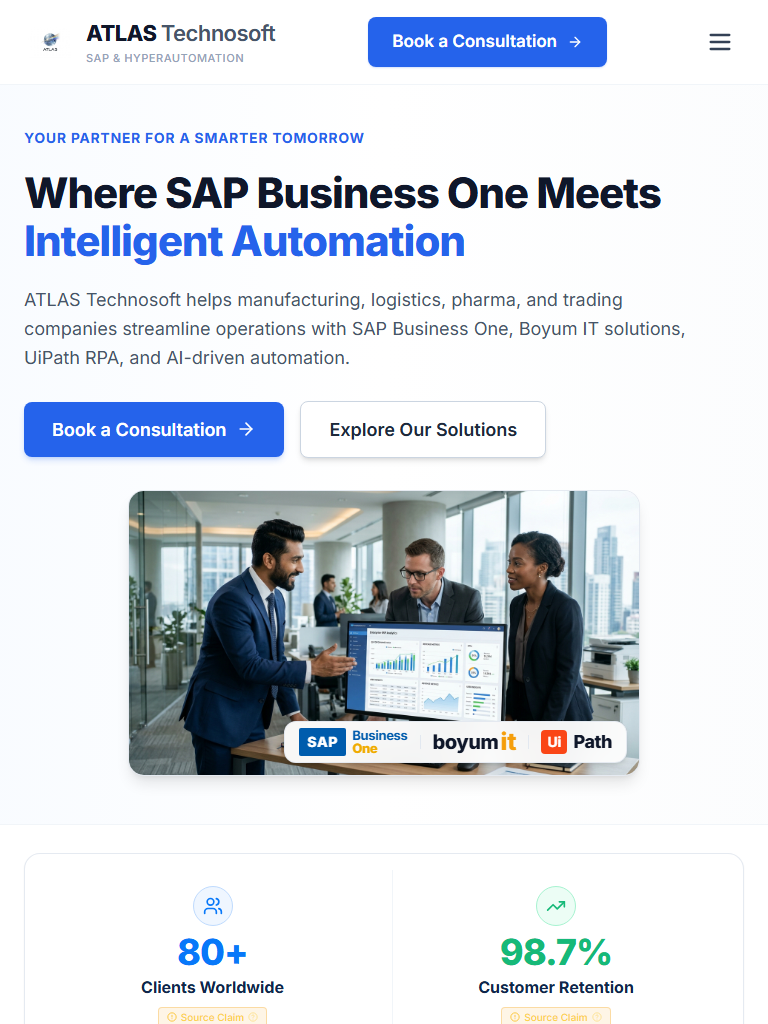
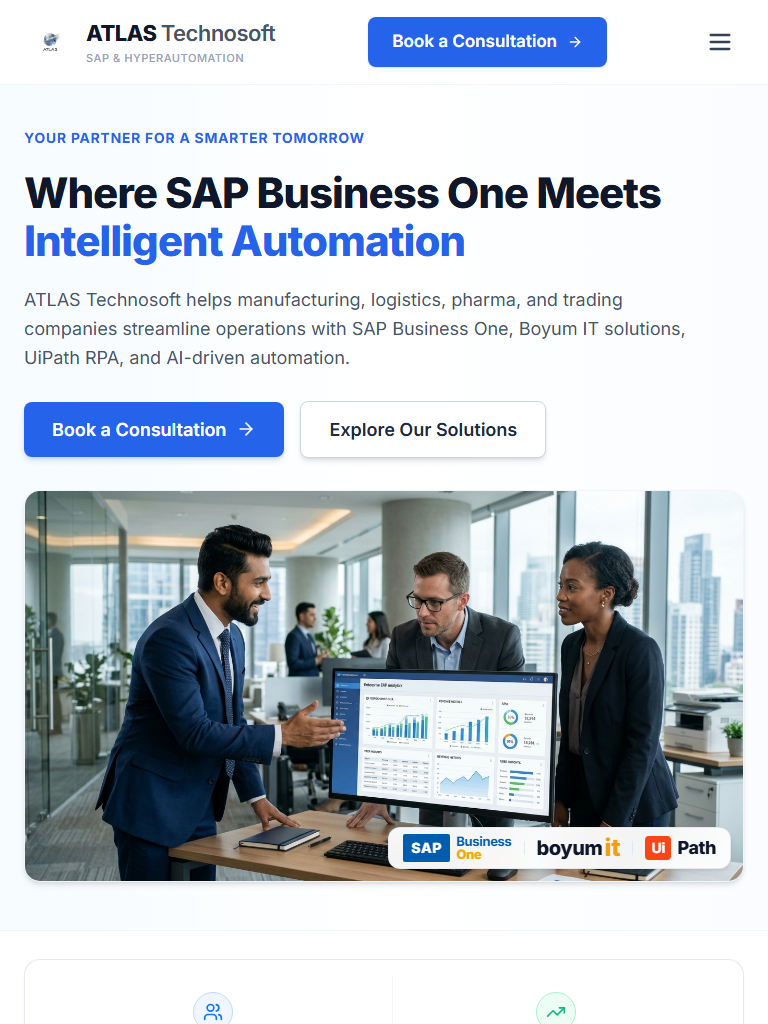
feat(ui): exact starting hero ambient background, balanced widescreen proportions, and accurate last section cards

Changed region(s): [[0.0312, 0.4688, 0.9688, 1.0]]

diff --git a/src/pages/HomePage.tsx b/src/pages/HomePage.tsx
@@ -150,11 +150,17 @@ export const HomePage: React.FC = () => {
       {/* ========================================================================= */}
       {/* SECTION 2: HERO SECTION                                                   */}
       {/* ========================================================================= */}
-      <section className="relative overflow-hidden bg-gradient-to-r from-blue-50/40 via-white to-slate-50/50 pt-10 pb-12 lg:pt-14 lg:pb-16 border-b border-slate-100">
-        <div className="max-w-[1320px] mx-auto px-4 sm:px-6 lg:px-8">
-          <div className="grid grid-cols-1 lg:grid-cols-12 gap-8 lg:gap-12 items-center">
+      <section className="relative overflow-hidden bg-gradient-to-r from-sky-50/60 via-white to-blue-50/30 pt-10 pb-12 lg:pt-14 lg:pb-16 border-b border-slate-100">
+        
+        {/* Subtle ambient office plant botanical glow on far left as in reference */}
+        <div className="absolute -left-12 top-1/2 -translate-y-1/2 w-48 h-80 opacity-25 pointer-events-none select-none hidden lg:block">
+          <div className="w-full h-full bg-gradient-to-tr from-emerald-600/30 via-teal-500/10 to-transparent rounded-full blur-3xl" />
+        </div>
+
+        <div className="max-w-[1380px] xl:max-w-[1420px] mx-auto px-4 sm:px-6 lg:px-8 relative">
+          <div className="grid grid-cols-1 lg:grid-cols-12 gap-8 lg:gap-10 xl:gap-14 items-center">
             
-            {/* Left Column (Approx 58% on Desktop) */}
+            {/* Left Column (Approx 58% on Desktop, well-proportioned covering left side) */}
             <div className="lg:col-span-7 space-y-5 text-left">
               {/* Eyebrow Label: 13–14px */}
               <div className="inline-block">
@@ -198,13 +204,13 @@ export const HomePage: React.FC = () => {
               </div>
             </div>
 
-            {/* Right Column: Hero Visual with Crystal-Clear Team Image & Floating Partner Ribbon */}
+            {/* Right Column: Hero Visual seamlessly filling right side proportion */}
             <div className="lg:col-span-5 relative">
-              <div className="relative mx-auto w-full max-w-lg lg:max-w-none rounded-2xl overflow-hidden shadow-lg border border-slate-200/90 bg-white">
+              <div className="relative w-full rounded-2xl overflow-hidden shadow-md border border-slate-100 bg-white">
                 <img
                   src="/images/crystal_hd/hero_team.jpg"
                   alt="ATLAS Technosoft Enterprise Team collaborating on SAP Business One Dashboard"
-                  className="w-full h-auto object-cover max-h-[380px]"
+                  className="w-full h-auto object-cover max-h-[390px]"
                 />
 
                 {/* Floating Partner Logo Ribbon Box at Bottom Right */}
@@ -226,7 +232,7 @@ export const HomePage: React.FC = () => {
       {/* SECTION 3: COMPANY METRICS BAR (COMPACT "SMALL SIZE" SINGLE BOX CARD)     */}
       {/* ========================================================================= */}
       <section id="metrics" className="py-6 sm:py-7 bg-white border-b border-slate-100">
-        <div className="max-w-[1320px] mx-auto px-4 sm:px-6 lg:px-8">
+        <div className="max-w-[1380px] xl:max-w-[1420px] mx-auto px-4 sm:px-6 lg:px-8">
           {/* Sleek, Single White Box-Type Container Bar matching Reference Image */}
           <div className="rounded-xl sm:rounded-2xl bg-white border border-slate-200/90 shadow-sm py-4 px-3 sm:px-6">
             <div className="grid grid-cols-2 lg:grid-cols-4 gap-4 divide-y sm:divide-y-0 sm:divide-x divide-slate-100">
@@ -244,7 +250,7 @@ export const HomePage: React.FC = () => {
       {/* SECTION 4: SERVICES OVERVIEW (4 COMPACT BOX-TYPE CARDS)                   */}
       {/* ========================================================================= */}
       <section id="services" className="py-10 sm:py-12 lg:py-14 bg-slate-50/50 border-b border-slate-100">
-        <div className="max-w-[1320px] mx-auto px-4 sm:px-6 lg:px-8">
+        <div className="max-w-[1380px] xl:max-w-[1420px] mx-auto px-4 sm:px-6 lg:px-8">
           
           <SectionHeading
             badge="OUR SERVICES"
@@ -316,7 +322,7 @@ export const HomePage: React.FC = () => {
       {/* SECTION 5: OUR EXPERTISE (BRIDGING ERP AND AUTOMATION)                    */}
       {/* ========================================================================= */}
       <section id="expertise" className="py-10 sm:py-12 lg:py-14 bg-white border-b border-slate-100">
-        <div className="max-w-[1320px] mx-auto px-4 sm:px-6 lg:px-8">
+        <div className="max-w-[1380px] xl:max-w-[1420px] mx-auto px-4 sm:px-6 lg:px-8">
           <div className="grid grid-cols-1 lg:grid-cols-12 gap-8 lg:gap-12 items-center">
             
             {/* Left Content (approx 55% width) */}
@@ -374,7 +380,7 @@ export const HomePage: React.FC = () => {
       {/* SECTION 6: INDUSTRIES WE SERVE (4 COMPACT BOX-TYPE CARDS)                 */}
       {/* ========================================================================= */}
       <section id="industries" className="py-10 sm:py-12 lg:py-14 bg-slate-50/50 border-b border-slate-100">
-        <div className="max-w-[1320px] mx-auto px-4 sm:px-6 lg:px-8">
+        <div className="max-w-[1380px] xl:max-w-[1420px] mx-auto px-4 sm:px-6 lg:px-8">
           
           <SectionHeading
             badge="INDUSTRIES WE SERVE"
@@ -417,7 +423,7 @@ export const HomePage: React.FC = () => {
       {/* SECTION 7: OUR APPROACH (INLINE PROCESS FLOW FROM REFERENCE IMAGE)        */}
       {/* ========================================================================= */}
       <section id="approach" className="py-10 sm:py-12 lg:py-14 bg-white border-b border-slate-100">
-        <div className="max-w-[1320px] mx-auto px-4 sm:px-6 lg:px-8">
+        <div className="max-w-[1380px] xl:max-w-[1420px] mx-auto px-4 sm:px-6 lg:px-8">
           
           <SectionHeading
             badge="OUR APPROACH"
@@ -457,7 +463,7 @@ export const HomePage: React.FC = () => {
       {/* SECTION 8: CUSTOMER SUCCESS (TWO COMPACT SIDE-BY-SIDE CARDS)              */}
       {/* ========================================================================= */}
       <section id="case-studies" className="py-10 sm:py-12 lg:py-14 bg-slate-50/50 border-b border-slate-100">
-        <div className="max-w-[1320px] mx-auto px-4 sm:px-6 lg:px-8">
+        <div className="max-w-[1380px] xl:max-w-[1420px] mx-auto px-4 sm:px-6 lg:px-8">
           
           <SectionHeading
             badge="CUSTOMER SUCCESS"
@@ -521,10 +527,10 @@ export const HomePage: React.FC = () => {
       </section>
 
       {/* ========================================================================= */}
-      {/* SECTION 9: OUR PARTNERS (SIDE-BY-SIDE AS IN REFERENCE IMAGE)             */}
+      {/* SECTION 9: OUR PARTNERS (SIDE-BY-SIDE AS IN REFERENCE IMAGE im2)          */}
       {/* ========================================================================= */}
       <section id="partners" className="py-8 sm:py-10 bg-white border-b border-slate-100">
-        <div className="max-w-[1320px] mx-auto px-4 sm:px-6 lg:px-8">
+        <div className="max-w-[1380px] xl:max-w-[1420px] mx-auto px-4 sm:px-6 lg:px-8">
           <div className="grid grid-cols-1 lg:grid-cols-12 gap-6 lg:gap-8 items-center">
             
             {/* Left Side: Title & Subtitle */}
@@ -540,14 +546,14 @@ export const HomePage: React.FC = () => {
               </p>
             </div>
 
-            {/* Right Side: Partner Logos White Box */}
-            <div className="lg:col-span-6 flex items-center justify-end">
-              <div className="w-full max-w-lg bg-white rounded-xl sm:rounded-2xl border border-slate-200/90 shadow-sm py-4 px-6 flex items-center justify-around">
-                <SAPBusinessOneLogo className="h-7 sm:h-8" />
-                <div className="h-6 w-px bg-slate-200" />
-                <BoyumITLogo className="h-7 sm:h-8" />
-                <div className="h-6 w-px bg-slate-200" />
-                <UiPathLogo className="h-7 sm:h-8" />
+            {/* Right Side: Clean Partner Logos inline with dividers matching im2 */}
+            <div className="lg:col-span-6 flex items-center justify-start lg:justify-end">
+              <div className="flex items-center gap-6 sm:gap-8 py-2">
+                <SAPBusinessOneLogo className="h-8 sm:h-9" />
+                <div className="h-7 w-px bg-slate-300" />
+                <BoyumITLogo className="h-8 sm:h-9" />
+                <div className="h-7 w-px bg-slate-300" />
+                <UiPathLogo className="h-8 sm:h-9" />
               </div>
             </div>
 
@@ -556,13 +562,13 @@ export const HomePage: React.FC = () => {
       </section>
 
       {/* ========================================================================= */}
-      {/* SECTION 10: LET'S DISCUSS YOUR BUSINESS NEEDS (BOX-TYPE BANNER)           */}
+      {/* SECTION 10: LET'S DISCUSS YOUR BUSINESS NEEDS (BOX-TYPE BANNER im2)       */}
       {/* ========================================================================= */}
       <section id="contact" className="py-10 sm:py-12 lg:py-14 bg-slate-50/50">
-        <div className="max-w-[1320px] mx-auto px-4 sm:px-6 lg:px-8">
+        <div className="max-w-[1380px] xl:max-w-[1420px] mx-auto px-4 sm:px-6 lg:px-8">
           
-          {/* Defined Box Container */}
-          <div className="rounded-2xl bg-gradient-to-br from-blue-50/80 via-sky-50/40 to-blue-50/80 border border-blue-200/90 p-6 sm:p-8 lg:p-10 shadow-sm">
+          {/* Defined Light Cyan/Blue Box Container matching im2 */}
+          <div className="rounded-2xl bg-[#eaf4ff] border border-blue-200/90 p-6 sm:p-8 lg:p-10 shadow-sm">
             <div className="grid grid-cols-1 lg:grid-cols-12 gap-8 lg:gap-10 items-center">
               
               {/* Left Column: Heading, Subtext & CTA Button */}
@@ -580,7 +586,7 @@ export const HomePage: React.FC = () => {
                     onClick={() => setIsModalOpen(true)}
                     variant="primary"
                     size="lg"
-                    className="text-[16px] sm:text-[17px] font-semibold px-8 py-3.5 shadow-md shadow-blue-600/25"
+                    className="text-[16px] sm:text-[17px] font-semibold px-8 py-3.5 shadow-md shadow-blue-600/25 bg-[#0878f9] hover:bg-blue-700"
                     icon={<ArrowRight className="w-5 h-5" />}
                   >
                     Book a Consultation
@@ -588,11 +594,11 @@ export const HomePage: React.FC = () => {
                 </div>
               </div>
 
-              {/* Right Column: 3 White Boxed Contact Info Cards in a Sleek Row */}
-              <div className="lg:col-span-7 grid grid-cols-1 sm:grid-cols-3 gap-3">
+              {/* Right Column: 3 Contact Info Cards with distinct colored borders matching im2 */}
+              <div className="lg:col-span-7 grid grid-cols-1 sm:grid-cols-3 gap-3.5">
                 
-                {/* Email Box Card */}
-                <div className="flex items-center gap-3 p-3.5 rounded-xl bg-white border-2 border-[#2992ff]/40 hover:border-[#2992ff] shadow-sm hover:shadow-md transition-all">
+                {/* Email Box Card: GREEN border */}
+                <div className="flex items-center gap-3 p-3.5 rounded-xl bg-white border-2 border-[#16b978] shadow-sm hover:shadow-md transition-all">
                   <div className="w-10 h-10 rounded-lg bg-blue-50 border border-blue-100 text-[#0878f9] flex items-center justify-center shrink-0">
                     <Mail className="w-5 h-5" />
                   </div>
@@ -602,15 +608,15 @@ export const HomePage: React.FC = () => {
                     </span>
                     <a
                       href={`mailto:${BRAND_INFO.contact.email}`}
-                      className="text-[13.5px] sm:text-[14px] font-bold text-slate-900 hover:text-blue-600 transition-colors truncate block leading-snug"
+                      className="text-[13px] sm:text-[13.5px] font-bold text-slate-900 hover:text-blue-600 transition-colors truncate block leading-snug"
                     >
                       {BRAND_INFO.contact.email}
                     </a>
                   </div>
                 </div>
 
-                {/* Phone Box Card */}
-                <div className="flex items-center gap-3 p-3.5 rounded-xl bg-white border-2 border-[#2992ff]/40 hover:border-[#2992ff] shadow-sm hover:shadow-md transition-all">
+                {/* Phone Box Card: BLUE border */}
+                <div className="flex items-center gap-3 p-3.5 rounded-xl bg-white border-2 border-[#2992ff] shadow-sm hover:shadow-md transition-all">
                   <div className="w-10 h-10 rounded-lg bg-blue-50 border border-blue-100 text-[#0878f9] flex items-center justify-center shrink-0">
                     <Phone className="w-5 h-5" />
                   </div>
@@ -622,15 +628,15 @@ export const HomePage: React.FC = () => {
                       href={BRAND_INFO.contact.whatsappLink}
                       target="_blank"
                       rel="noopener noreferrer"
-                      className="text-[13.5px] sm:text-[14px] font-bold text-slate-900 hover:text-blue-600 transition-colors truncate block leading-snug"
+                      className="text-[13px] sm:text-[13.5px] font-bold text-slate-900 hover:text-blue-600 transition-colors truncate block leading-snug"
                     >
                       {BRAND_INFO.contact.phone}
                     </a>
                   </div>
                 </div>
 
-                {/* Locations Box Card */}
-                <div className="flex items-center gap-3 p-3.5 rounded-xl bg-white border-2 border-[#2992ff]/40 hover:border-[#2992ff] shadow-sm hover:shadow-md transition-all">
+                {/* Locations Box Card: PURPLE border */}
+                <div className="flex items-center gap-3 p-3.5 rounded-xl bg-white border-2 border-[#a34dff] shadow-sm hover:shadow-md transition-all">
                   <div className="w-10 h-10 rounded-lg bg-blue-50 border border-blue-100 text-[#0878f9] flex items-center justify-center shrink-0">
                     <MapPin className="w-5 h-5" />
                   </div>
@@ -638,7 +644,7 @@ export const HomePage: React.FC = () => {
                     <span className="text-[12px] font-bold uppercase tracking-wider text-slate-400 block leading-tight">
                       Locations
                     </span>
-                    <span className="text-[13px] sm:text-[13.5px] font-bold text-slate-900 block leading-tight">
+                    <span className="text-[12.5px] sm:text-[13px] font-bold text-slate-900 block leading-tight">
                       Borivali, Mumbai<br className="hidden sm:inline" /> Marine Lines, Mumbai
                     </span>
                   </div>

diff --git a/src/components/layout/SiteFooter.tsx b/src/components/layout/SiteFooter.tsx
@@ -7,7 +7,7 @@ export const SiteFooter: React.FC = () => {
 
   return (
     <footer className="bg-[#070D1E] text-slate-300 pt-16 pb-12 border-t border-slate-800">
-      <div className="max-w-[1320px] mx-auto px-4 sm:px-6 lg:px-8">
+      <div className="max-w-[1380px] xl:max-w-[1420px] mx-auto px-4 sm:px-6 lg:px-8">
         
         {/* Main 4-Column Footer Grid */}
         <div className="grid grid-cols-1 md:grid-cols-2 lg:grid-cols-12 gap-10 lg:gap-12 pb-14 border-b border-slate-800/80">

diff --git a/src/components/layout/SiteHeader.tsx b/src/components/layout/SiteHeader.tsx
@@ -25,7 +25,7 @@ export const SiteHeader: React.FC = () => {
             : 'bg-white border-b border-slate-100'
         }`}
       >
-        <div className="max-w-[1320px] mx-auto px-4 sm:px-6 lg:px-8">
+        <div className="max-w-[1380px] xl:max-w-[1420px] mx-auto px-4 sm:px-6 lg:px-8">
           <div className="flex items-center justify-between h-[84px]">
             
             {/* Brand Logo & Name */}
